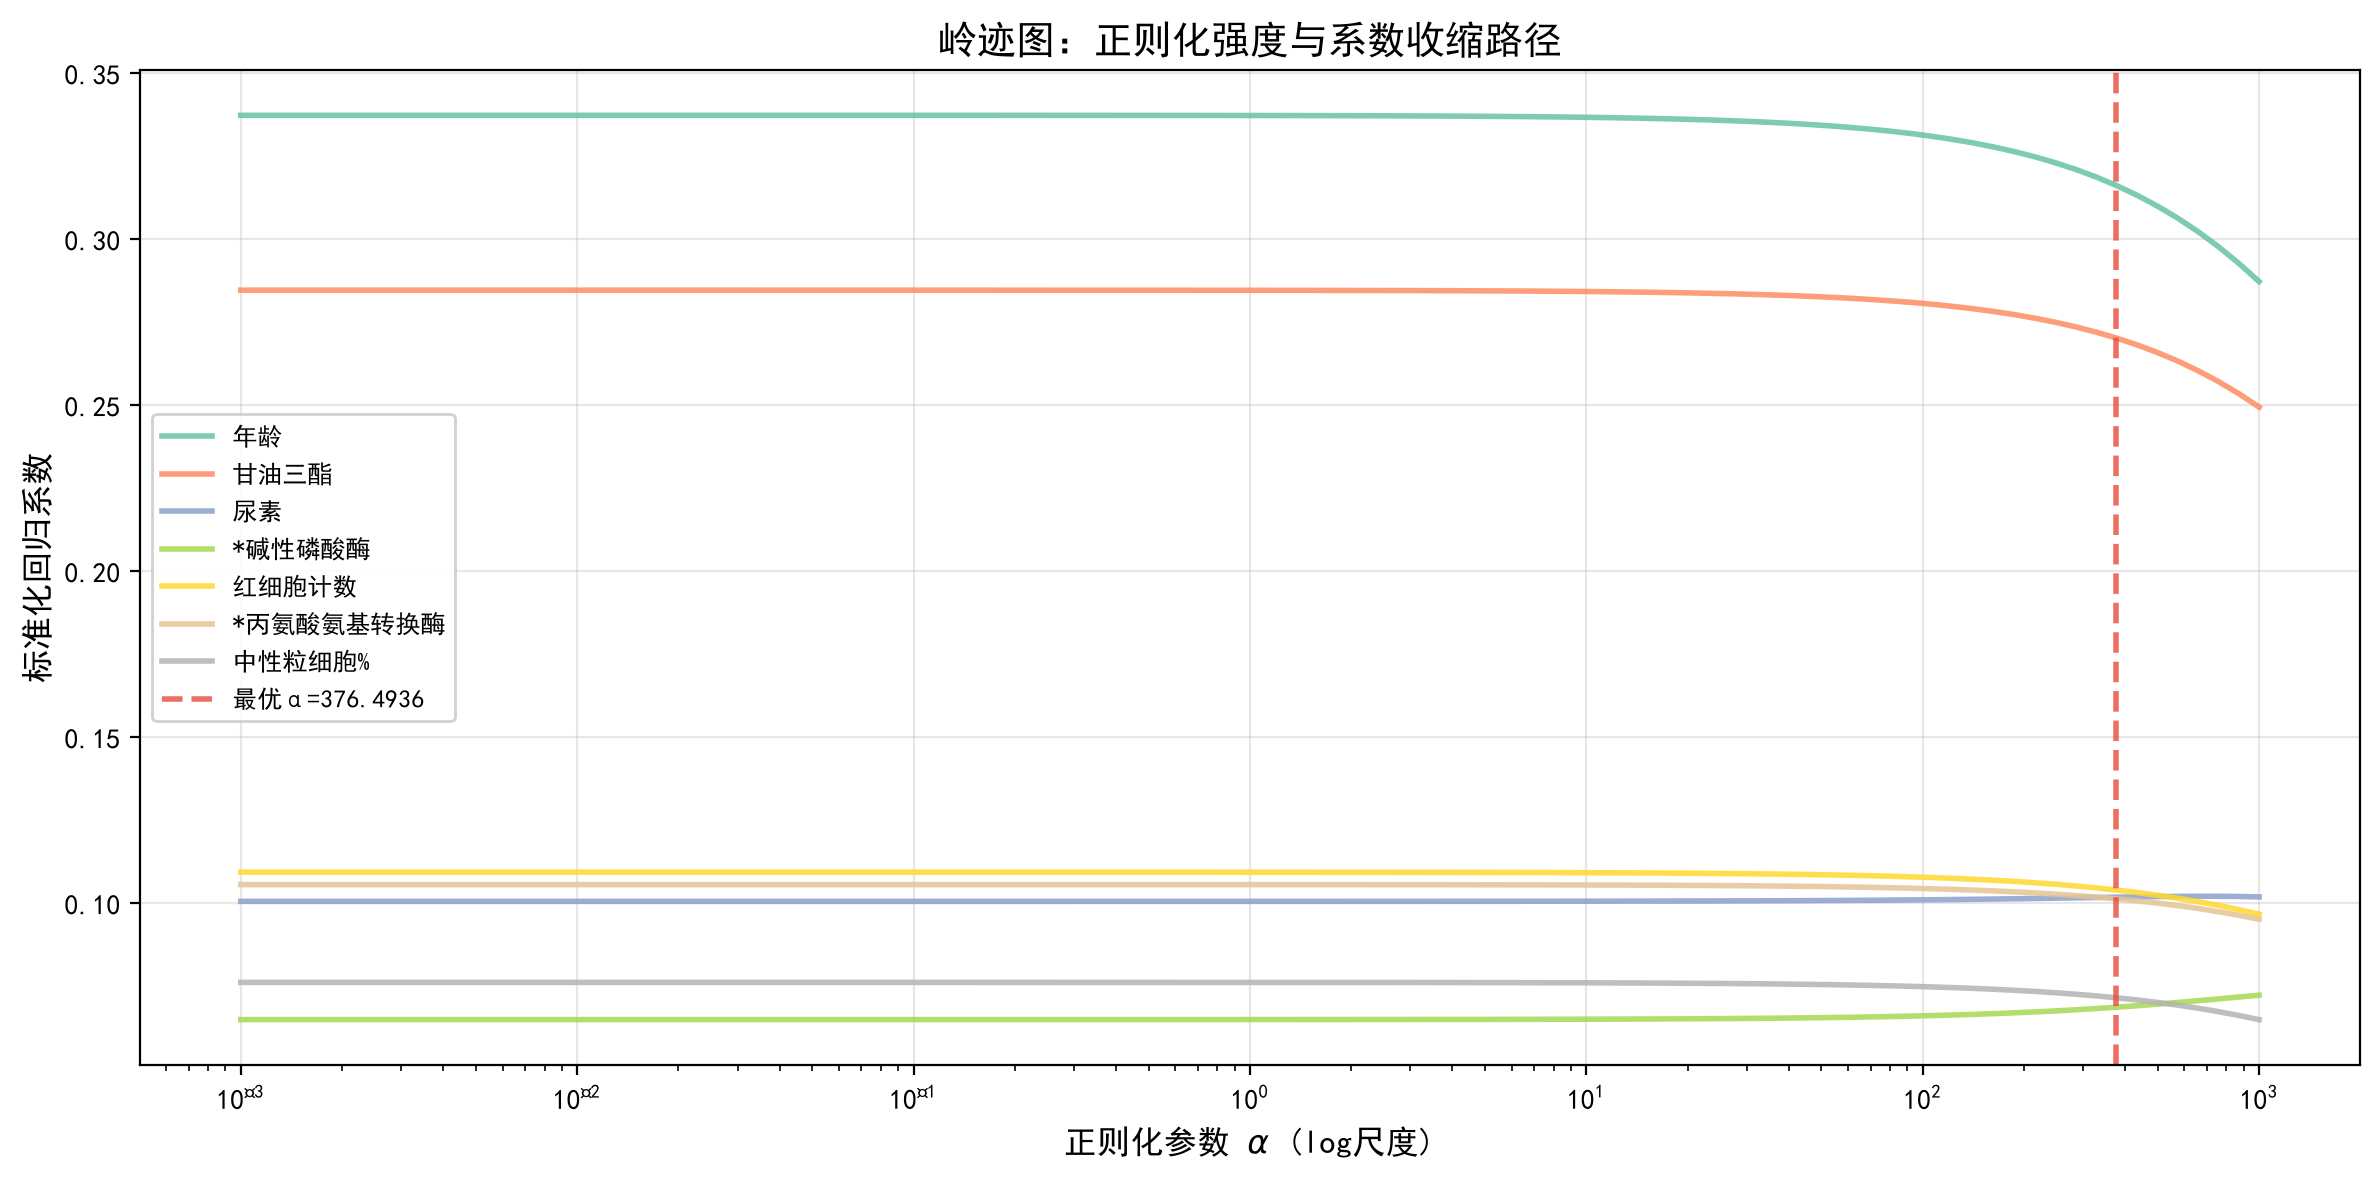
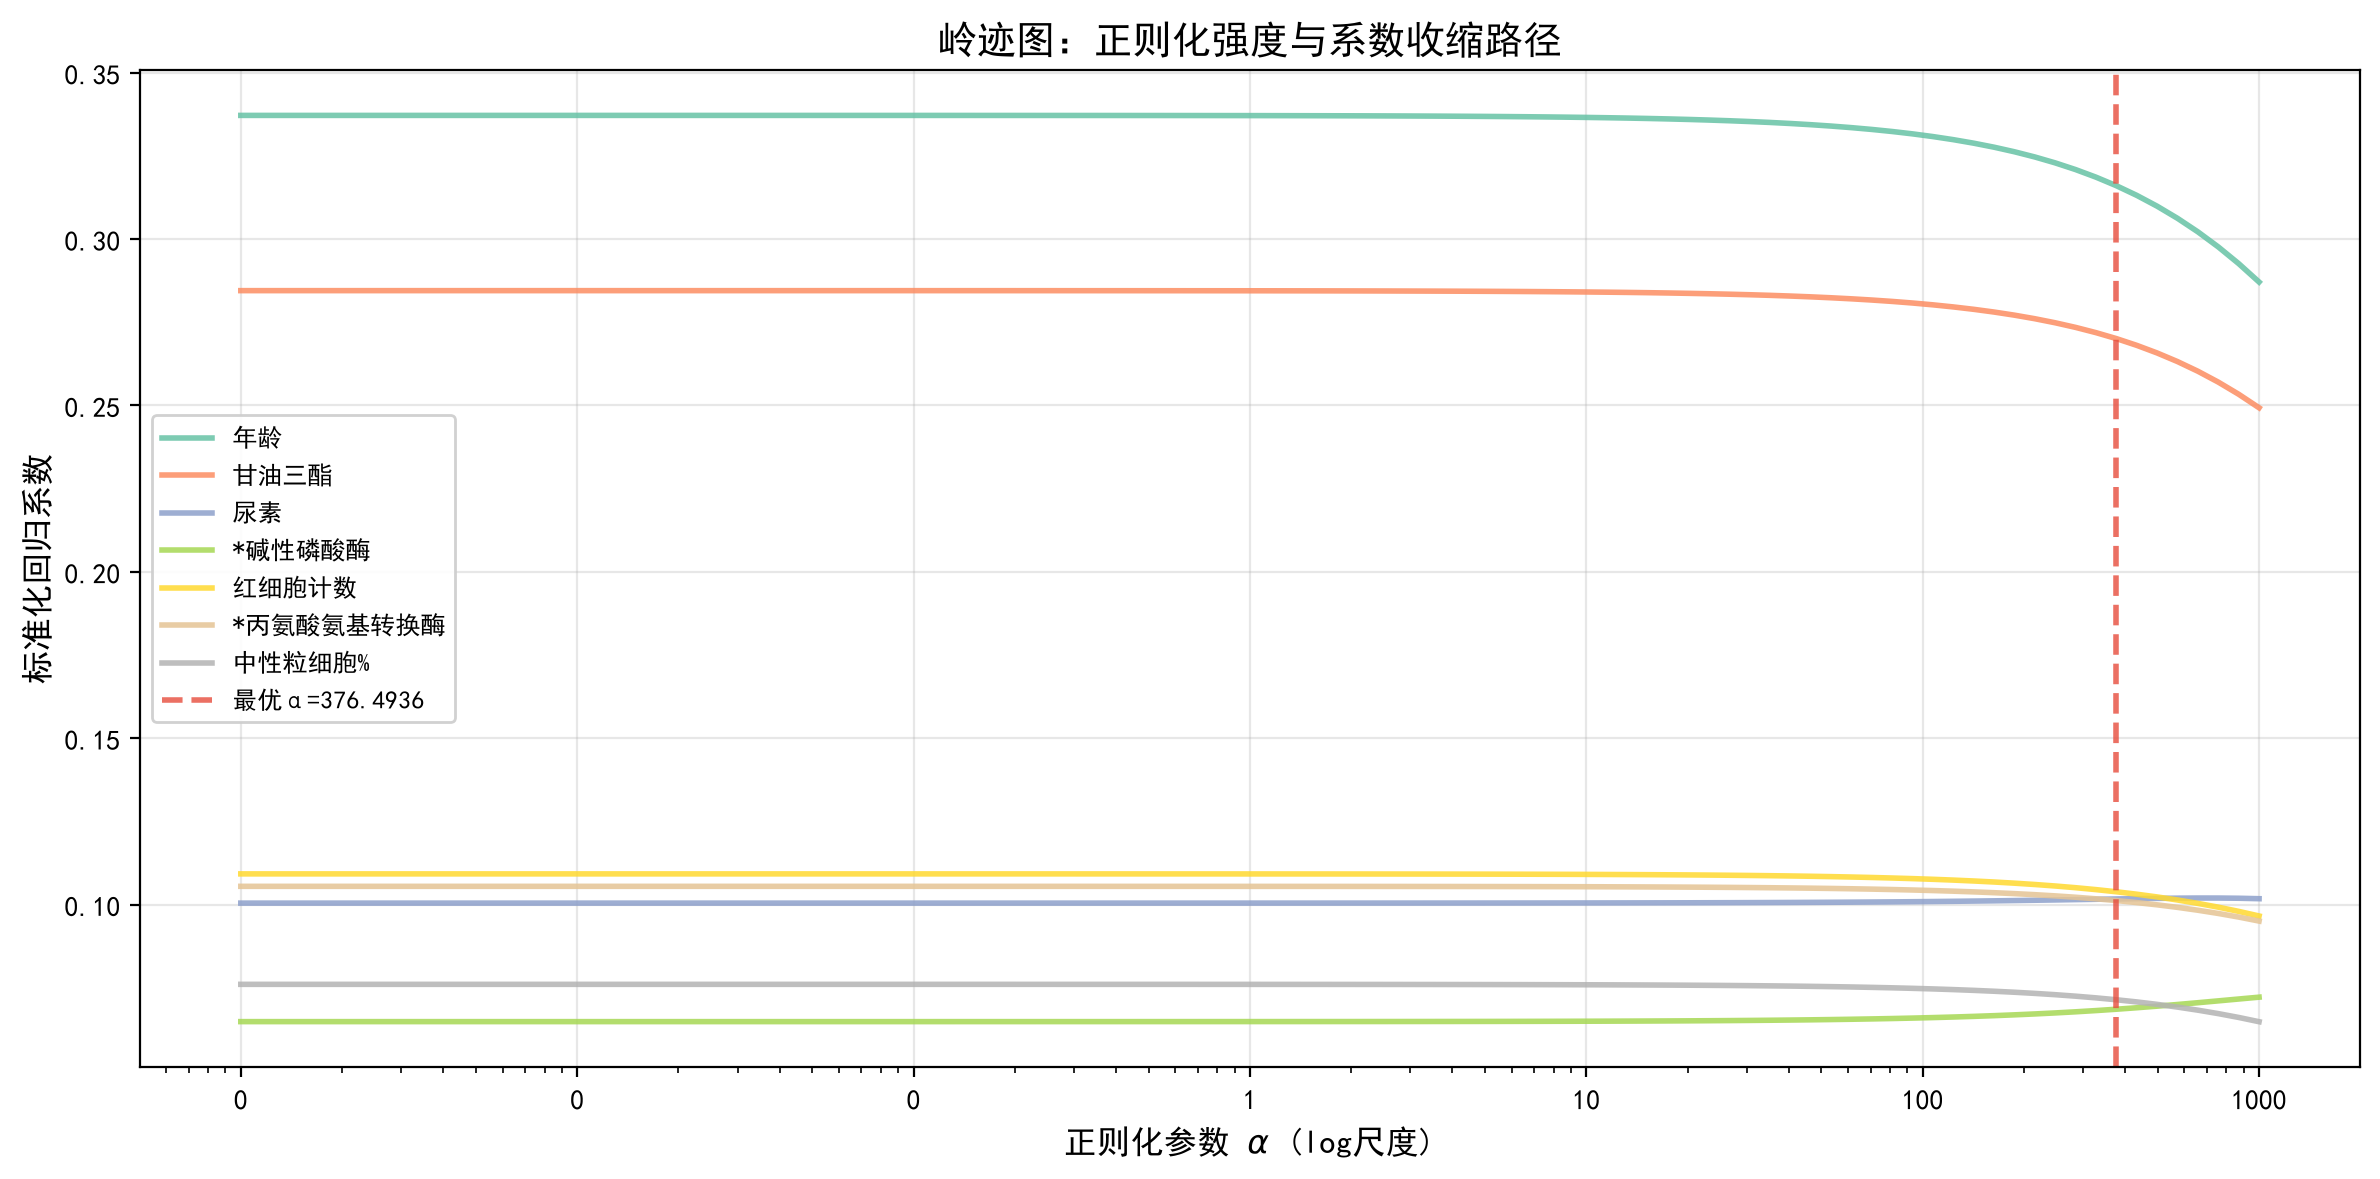
剔除无用的可视化数据

diff --git a/t2.py b/t2.py
@@ -221,6 +221,8 @@ def _ridge_trace_plot(X, y, alphas, best_alpha):
     ax.axvline(x=best_alpha, color='#E74C3C', linestyle='--', linewidth=2,
                alpha=0.8, label=f'最优α={best_alpha:.4f}')
     ax.set_xscale('log')
+    # 用数学文本格式避免Unicode减号(U+2212)的字体缺失警告
+    ax.xaxis.set_major_formatter(plt.ScalarFormatter(useMathText=True))
     ax.set_xlabel(r'正则化参数 $\alpha$ (log尺度)', fontsize=12)
     ax.set_ylabel('标准化回归系数', fontsize=12)
     ax.set_title('岭迹图：正则化强度与系数收缩路径', fontsize=14, fontweight='bold')
@@ -329,7 +331,7 @@ def _rf_importance_plot(imp_df):
 # ============================================================
 # Step 4: 模型对比与可视化
 # ============================================================
-def step4_comparison(ridge_result, rf_result, df):
+def step4_comparison(mlr_result, ridge_result, rf_result, df):
     """对比岭回归（改进后线性模型）vs 随机森林（非线性模型）"""
     print("\n" + "=" * 60)
     print("Step 4: 模型对比 — 岭回归(改进线性) vs 随机森林(非线性)")
@@ -337,13 +339,13 @@ def step4_comparison(ridge_result, rf_result, df):
 
     y = df['glucose'].values
 
-    # 对比表
+    # 对比表（修复：MLR行使用mlr_result的正确值）
     comp_df = pd.DataFrame({
         '模型': ['多元线性回归(MLR)', '岭回归(Ridge)[改进]', '随机森林(RF)'],
-        '$R^2$': [f"{ridge_result['r2']:.4f}", f"{ridge_result['r2']:.4f}", f"{rf_result['r2']:.4f}"],
-        '调整$R^2$': [f"{ridge_result['adj_r2']:.4f}", f"{ridge_result['adj_r2']:.4f}", f"{rf_result['adj_r2']:.4f}"],
-        'RMSE': [f"{ridge_result['rmse']:.4f}", f"{ridge_result['rmse']:.4f}", f"{rf_result['rmse']:.4f}"],
-        'MAE': [f"{ridge_result['mae']:.4f}", f"{ridge_result['mae']:.4f}", f"{rf_result['mae']:.4f}"],
+        '$R^2$': [f"{mlr_result['r2']:.4f}", f"{ridge_result['r2']:.4f}", f"{rf_result['r2']:.4f}"],
+        '调整$R^2$': [f"{mlr_result['adj_r2']:.4f}", f"{ridge_result['adj_r2']:.4f}", f"{rf_result['adj_r2']:.4f}"],
+        'RMSE': [f"{mlr_result['rmse']:.4f}", f"{ridge_result['rmse']:.4f}", f"{rf_result['rmse']:.4f}"],
+        'MAE': [f"{mlr_result['mae']:.4f}", f"{ridge_result['mae']:.4f}", f"{rf_result['mae']:.4f}"],
         '模型角色': ['基础模型', 'MLR+L2改进', '非线性预测'],
     })
 
@@ -394,26 +396,63 @@ def step4_comparison(ridge_result, rf_result, df):
     plt.close()
     print(f"  图表: {FIGURE_DIR}/问题2_模型预测对比图.png")
 
-    # ====== 可视化2: 指标对比柱状图 ======
-    fig, axes = plt.subplots(1, 3, figsize=(15, 5))
-    metrics_config = [
-        ('$R^2$', [ridge_result['r2'], rf_result['r2']], ['#2ECC71', '#E74C3C'], True),
-        ('RMSE', [ridge_result['rmse'], rf_result['rmse']], ['#2ECC71', '#E74C3C'], False),
-        ('MAE', [ridge_result['mae'], rf_result['mae']], ['#2ECC71', '#E74C3C'], False),
-    ]
-    for idx, (title, vals, colors, higher_better) in enumerate(metrics_config):
-        ax = axes[idx]
-        names = ['Ridge\n(改进线性)', 'RF\n(非线性)']
-        bars = ax.bar(names, vals, color=colors, alpha=0.85, edgecolor='white', linewidth=1.5, width=0.5)
-        for bar, v in zip(bars, vals):
-            ax.text(bar.get_x()+bar.get_width()/2, bar.get_height()+0.002,
-                    f'{v:.4f}', ha='center', va='bottom', fontsize=10, fontweight='bold')
-        ax.set_title(title, fontsize=13, fontweight='bold')
-        ax.grid(True, axis='y', alpha=0.2)
+    # ====== 可视化2: 综合性能雷达图（PDF方案1：归一化三指标合并） ======
+    # 归一化：R²不变（越大越好），RMSE/MAE转为得分（越大越好）
+    models_radar = {
+        'MLR\n(基础)': {
+            'R²': mlr_result['r2'],
+            'RMSE得分': 1 - mlr_result['rmse'] / max(mlr_result['rmse'], ridge_result['rmse'], rf_result['rmse']),
+            'MAE得分': 1 - mlr_result['mae'] / max(mlr_result['mae'], ridge_result['mae'], rf_result['mae']),
+            '可解释性': 1.0,
+        },
+        'Ridge\n(L2改进)': {
+            'R²': ridge_result['r2'],
+            'RMSE得分': 1 - ridge_result['rmse'] / max(mlr_result['rmse'], ridge_result['rmse'], rf_result['rmse']),
+            'MAE得分': 1 - ridge_result['mae'] / max(mlr_result['mae'], ridge_result['mae'], rf_result['mae']),
+            '可解释性': 0.8,
+        },
+        'RF\n(非线性)': {
+            'R²': rf_result['r2'],
+            'RMSE得分': 1 - rf_result['rmse'] / max(mlr_result['rmse'], ridge_result['rmse'], rf_result['rmse']),
+            'MAE得分': 1 - rf_result['mae'] / max(mlr_result['mae'], ridge_result['mae'], rf_result['mae']),
+            '可解释性': 0.3,
+        },
+    }
+    categories = ['R²', 'RMSE得分', 'MAE得分', '可解释性']
+    n_cat = len(categories)
+    angles = np.linspace(0, 2 * np.pi, n_cat, endpoint=False).tolist()
+    angles += angles[:1]  # 闭合
+
+    colors_radar = {'MLR\n(基础)': '#85C1E9', 'Ridge\n(L2改进)': '#52BE80', 'RF\n(非线性)': '#F39C12'}
+
+    fig, ax = plt.subplots(figsize=(9, 9), subplot_kw=dict(polar=True))
+    for name, metrics in models_radar.items():
+        values = [metrics[cat] for cat in categories] + [metrics[categories[0]]]
+        ax.plot(angles, values, 'o-', linewidth=2, label=name, color=colors_radar[name], markersize=6)
+        ax.fill(angles, values, alpha=0.1, color=colors_radar[name])
+
+    ax.set_xticks(angles[:-1])
+    ax.set_xticklabels(categories, fontsize=12, fontweight='bold')
+    ax.set_ylim(0, 1.05)
+    ax.set_yticks([0.2, 0.4, 0.6, 0.8, 1.0])
+    ax.set_yticklabels(['0.2', '0.4', '0.6', '0.8', '1.0'], fontsize=9, color='gray')
+    ax.set_title('模型综合性能雷达图', fontsize=15, fontweight='bold', pad=25)
+    ax.legend(loc='upper right', bbox_to_anchor=(1.3, 1.1), fontsize=11, framealpha=0.9)
+    ax.grid(True, alpha=0.3)
+
+    # 标注实际数值
+    for name, metrics in models_radar.items():
+        # 在R²轴上方标注实际R²值
+        r2_val = metrics['R²']
+        angle_r2 = angles[0]
+        ax.annotate(f'{r2_val:.3f}', xy=(angle_r2, r2_val + 0.08),
+                    ha='center', va='bottom', fontsize=8, color=colors_radar[name],
+                    fontweight='bold')
+
     plt.tight_layout()
     plt.savefig(f'{FIGURE_DIR}/问题2_模型指标对比.png', dpi=200, bbox_inches='tight')
     plt.close()
-    print(f"  图表: {FIGURE_DIR}/问题2_模型指标对比.png")
+    print(f"  图表: {FIGURE_DIR}/问题2_模型指标对比.png (雷达图)")
 
     # ====== 可视化3: 残差分析 — 小提琴图+散点图（Ridge + RF 合并） ======
     fig, ax = plt.subplots(figsize=(12, 7))
@@ -511,7 +550,7 @@ def main():
     rf_result = step3_rf(df)
 
     # Step 4: 模型对比
-    comp_df, best_name, best_r2 = step4_comparison(ridge_result, rf_result, df)
+    comp_df, best_name, best_r2 = step4_comparison(mlr_result, ridge_result, rf_result, df)
 
     # 最终输出
     elapsed = (datetime.datetime.now() - start_time).total_seconds()